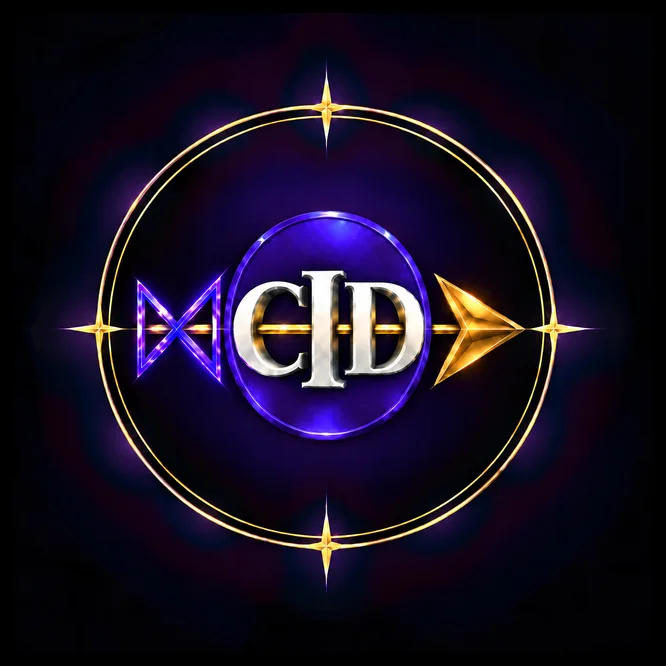
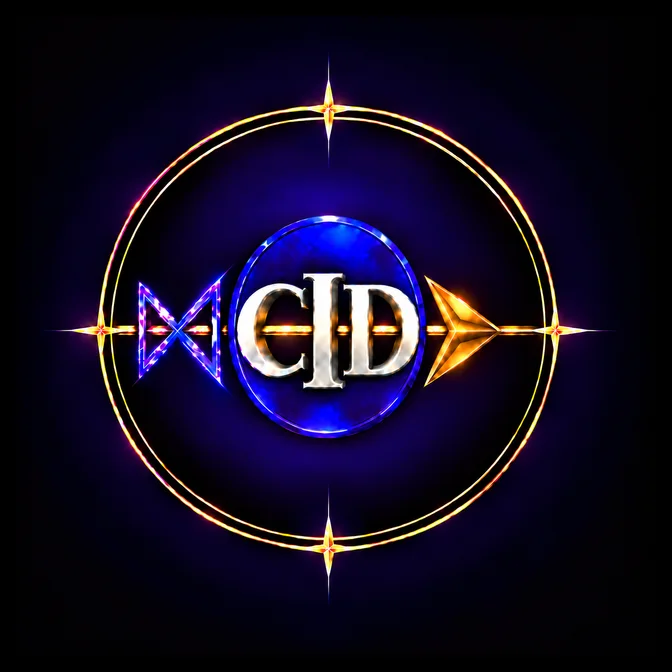
feat(home): CID card shows the homepage seal, octopus swaps in Marine Squad
The CID card now rests on CID SEAL HOMEPAGE.png and carries a corner
button, Font Awesome's octopus-deploy brand mark (CC BY 4.0, inlined),
that swaps in CID SEAL - MARINE SQUAD.png; tapping again returns to the
seal at rest. Both tiles are cut with the outer ring at the shared
diameter and centred (the Marine Squad ring is dim grey-gold behind
blue rays, so it was found by an exhaustive circle search rather than
the luminance fit), so the swap holds still. The button shares the MIC
card's control style and sits in the same bottom-right spot as its β.

Changed region(s): [[0.0901, 0.0901, 0.9009, 0.8709], [0.3303, 0.2703, 0.3604, 0.3003], [0.3003, 0.3003, 0.3303, 0.3303]]

diff --git a/src/app/components/CidSealCard.tsx b/src/app/components/CidSealCard.tsx
@@ -1,0 +1,42 @@
+import { useState } from "react";
+
+/* The CID division card: the seal at rest, and a corner button that swaps
+   in the Marine Squad seal. Tapping again returns to the seal at rest.
+   The button's icon is Font Awesome's octopus-deploy brand mark (Free
+   6.7.2, CC BY 4.0, https://fontawesome.com/license/free), inlined so no
+   font loads for it. Both tiles were cut with the same ring fit, so the
+   swap holds still. */
+
+const BASE = import.meta.env.BASE_URL;
+const SEAL = `${BASE}assets/brand/cid-seal-640.webp`;
+const MARINE = `${BASE}assets/brand/cid-seal-marine-640.webp`;
+
+function OctopusIcon() {
+  return (
+    <svg viewBox="0 0 512 512" aria-hidden="true" fill="currentColor">
+      <path d="M455.6,349.2c-45.891-39.09-36.67-77.877-16.095-128.11C475.16,134.04,415.967,34.14,329.93,8.3,237.04-19.6,134.252,24.341,99.677,117.147a180.862,180.862,0,0,0-10.988,73.544c1.733,29.543,14.717,52.97,24.09,80.3,17.2,50.161-28.1,92.743-66.662,117.582-46.806,30.2-36.319,39.857-8.428,41.858,23.378,1.68,44.478-4.548,65.265-15.045,9.2-4.647,40.687-18.931,45.13-28.588C135.9,413.388,111.122,459.5,126.621,488.9c19.1,36.229,67.112-31.77,76.709-45.812,8.591-12.572,42.963-81.279,63.627-46.926,18.865,31.361,8.6,76.391,35.738,104.622,32.854,34.2,51.155-18.312,51.412-44.221.163-16.411-6.1-95.852,29.9-59.944C405.428,418,436.912,467.8,472.568,463.642c38.736-4.516-22.123-67.967-28.262-78.695,5.393,4.279,53.665,34.128,53.818,9.52C498.234,375.678,468.039,359.8,455.6,349.2Z" />
+    </svg>
+  );
+}
+
+export function CidSealCard() {
+  const [marine, setMarine] = useState(false);
+  return (
+    <div className="ot-div__art ot-seal">
+      <img className={`ot-seal__face${marine ? "" : " ot-seal__face--on"}`} src={SEAL} alt="" width="640" height="640" loading="lazy" />
+      <img className={`ot-seal__face${marine ? " ot-seal__face--on" : ""}`} src={MARINE} alt="" width="640" height="640" loading="lazy" />
+      <div className="ot-seal__ctl">
+        <button
+          type="button"
+          className="ot-seal__btn"
+          onClick={() => setMarine((m) => !m)}
+          aria-pressed={marine}
+          aria-label={marine ? "Show the CID seal" : "Show the Marine Squad seal"}
+          title={marine ? "CID seal" : "Marine Squad"}
+        >
+          <OctopusIcon />
+        </button>
+      </div>
+    </div>
+  );
+}

diff --git a/src/styles/hero-top.css b/src/styles/hero-top.css
@@ -356,12 +356,19 @@
 .ot-micro--still .ot-micro__still { opacity: 1; }
 .ot-micro__ctl { position: absolute; left: 10px; bottom: 16%; z-index: 2; display: flex; flex-direction: column; gap: 6px; }
 .ot-micro__ctl--beta { left: auto; right: 10px; }
-.ot-micro__btn { width: 34px; height: 34px; padding: 0; border-radius: 50%; cursor: pointer;
+.ot-micro__btn, .ot-seal__btn { width: 34px; height: 34px; padding: 0; border-radius: 50%; cursor: pointer;
   border: 1px solid rgba(255,255,255,0.35); background: rgba(6,2,28,0.62); color: #fff;
   display: grid; place-items: center; backdrop-filter: blur(4px); transition: background 0.2s ease, transform 0.2s ease; }
-.ot-micro__btn:hover { background: rgba(91,4,222,0.85); transform: translateY(-1px); }
-.ot-micro__btn:focus-visible { outline: 2px solid #fff; outline-offset: 2px; }
-.ot-micro__btn svg { width: 18px; height: 18px; }
+.ot-micro__btn:hover, .ot-seal__btn:hover { background: rgba(91,4,222,0.85); transform: translateY(-1px); }
+.ot-micro__btn:focus-visible, .ot-seal__btn:focus-visible { outline: 2px solid #fff; outline-offset: 2px; }
+.ot-micro__btn svg, .ot-seal__btn svg { width: 18px; height: 18px; }
+
+/* CID card: two seals stacked, the one that is on shows; the octopus
+   button (bottom-right, same spot as the MIC card's β) swaps them. */
+.ot-seal { position: relative; overflow: hidden; }
+.ot-seal__face { position: absolute; inset: 0; width: 100%; height: 100%; object-fit: cover; display: block; opacity: 0; transition: opacity 0.45s ease; }
+.ot-seal__face--on { opacity: 1; }
+.ot-seal__ctl { position: absolute; right: 10px; bottom: 16%; z-index: 2; }
 .ot-micro__btn--beta { font-family: Georgia, "Times New Roman", serif; font-size: 19px; font-weight: 600; line-height: 1; padding-bottom: 2px; }
 
 /* below ~1000px there is no room beside the orb for a popped bubble, so the

diff --git a/src/app/components/Home.tsx b/src/app/components/Home.tsx
@@ -3,6 +3,7 @@ import { type CSSProperties, type PointerEvent as ReactPointerEvent, type ReactN
 import { PathwayModal } from "./PathwayModal";
 import { OooDivisions } from "./OooDivisions";
 import { MicroDeLuxeCard } from "./MicroDeLuxeCard";
+import { CidSealCard } from "./CidSealCard";
 import { WaterTanks } from "./WaterTanks";
 import { ONTARIO_REGION_PATHS, ONTARIO_ZONES } from "./ontarioRegions";
 import { CANADA_US_BORDER, CONTEXT_PATHS, GTA_CITIES, GTA_LABELS, GTA_VIEWBOX, ONTARIO_CONTEXT_VIEWBOX, ONTARIO_LABELS, SIMCOE_CENTRE, SIMCOE_PATH, USA_PATH } from "./ontarioContext";
@@ -372,14 +373,7 @@ export function Home({ onSupport }: { onSupport: () => void }) {
               <p className="ot-div__name">Media, Information and Culture (MIC)</p>
             </li>
             <li className="ot-div">
-              <img
-                className="ot-div__art"
-                src={`${import.meta.env.BASE_URL}assets/brand/cid-seal-640.webp`}
-                alt=""
-                width="640"
-                height="640"
-                loading="lazy"
-              />
+              <CidSealCard />
               <p className="ot-div__name">Canadian Innovation Dimension (CID)</p>
             </li>
             <li className="ot-div">
